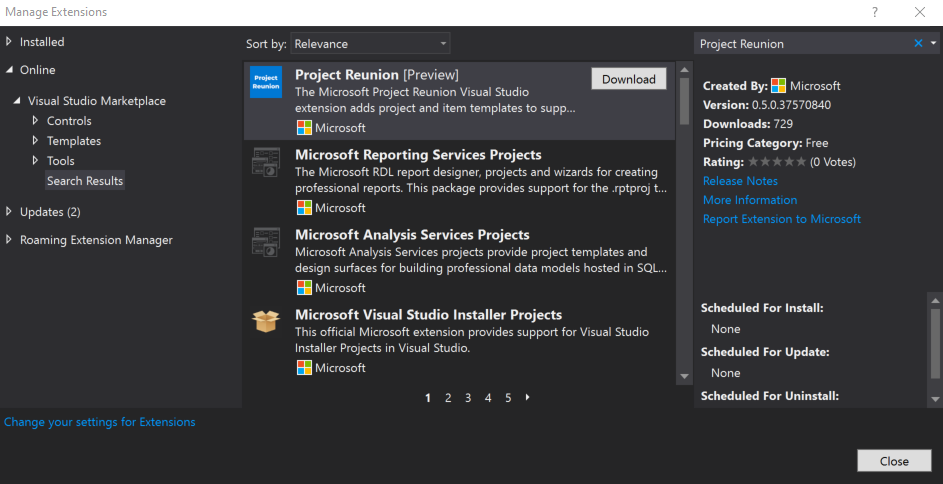
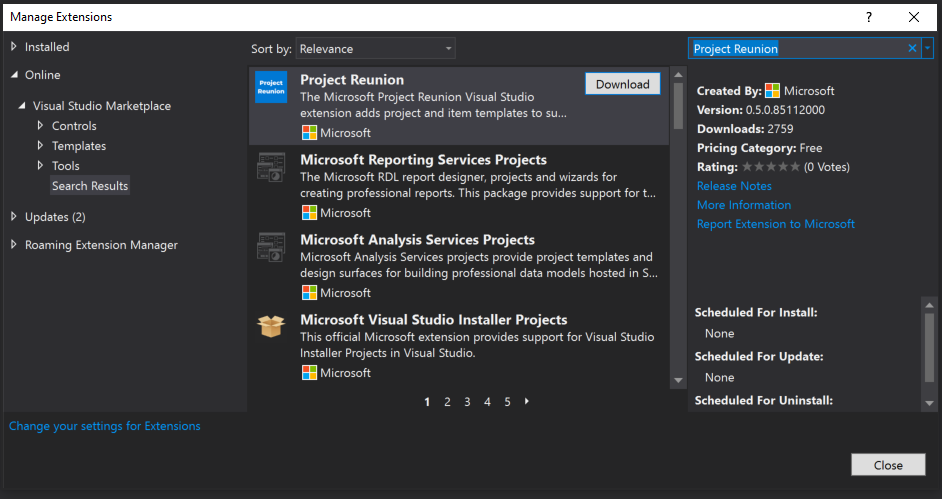
Updated Reunion images and MRT Core build action guidance (#1420)

diff --git a/hub/apps/project-reunion/mrtcore/mrtcore-overview.md b/hub/apps/project-reunion/mrtcore/mrtcore-overview.md
@@ -2,7 +2,7 @@
 description: Overview of MRT Core components, and how they work to load application resources (Project Reunion)
 title: Manage resources MRT Core (Project Reunion)
 ms.topic: article
-ms.date: 03/09/2021
+ms.date: 03/31/2021
 keywords: MRT, MRTCore, pri, makepri, resources, resource loading
 ms.author: hickeys
 author: hickeys
@@ -23,7 +23,13 @@ A PRI file contains actual string resources. Embedded binary and file path resou
 
 PRI files contain only data, so they don't use the portable executable (PE) format. They are specifically designed to be data-only.
 
-## Access app resources
+> [!NOTE]
+> Before you can use MRT Core to retrieve strings and images in a WinUI 3 project that uses C#/.NET 5, you must ensure that these resources are configured so that they can be indexed in the resources.pri file. Otherwise, these resources cannot be retrieved by MRT Core.
+>
+> * For a string resources file (.resw), make sure the **Build Action** property for the file is set to **PRIResource**.
+> * For an image file, make sure the **Build Action** property for the file is set to **Content**.
+
+## Access app resources with MRT Core
 
 MRT Core provides several different ways to access your app resources.
 
@@ -44,15 +50,6 @@ The **ResourceManager** not only supports access to an app's string resources, i
 ### Qualify resource selection with ResourceContext
 
 Resource candidates are chosen based on a particular [ResourceContext](/windows/winui/api/microsoft.applicationmodel.resources.resourcecontext), which is a collection of resource qualifier values (language, scale, contrast, and so on). A default context uses the app's current configuration for each qualifier value, unless overridden. For example, resources such as images can be qualified for scale, which varies from one monitor to another and hence from one application view to another. For this reason, each application view has a distinct default context. Whenever you retrieve a resource candidate, you should pass in a **ResourceContext** instance to obtain the most appropriate value for a given view.
-
-### Load images
-
-If you want to use MRT Core to retrieve images that you added to your project, you must configure the image to be built as content. If you do not do this, the image will not be indexed in the resources.pri file and cannot be retrieved by MRT Core.
-
-To configure an image to be built as content:
-
-* In a C#/.NET 5 project, set the **Build Action** property for the image to **Content**.
-* In a C++/WinRT project, set the **Content** property for the image to **True**.
 
 ## Sample
 
